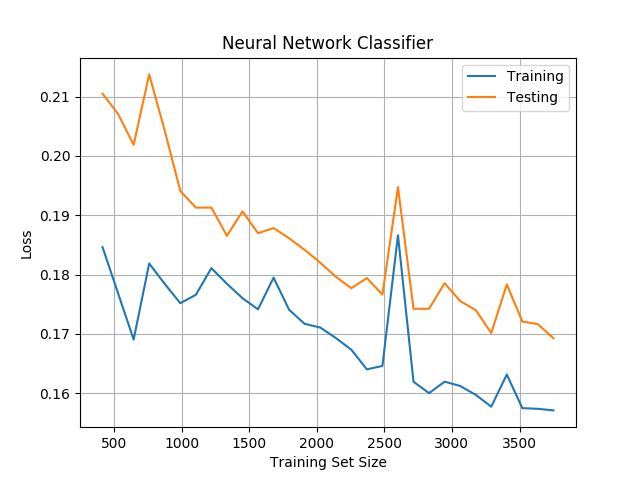
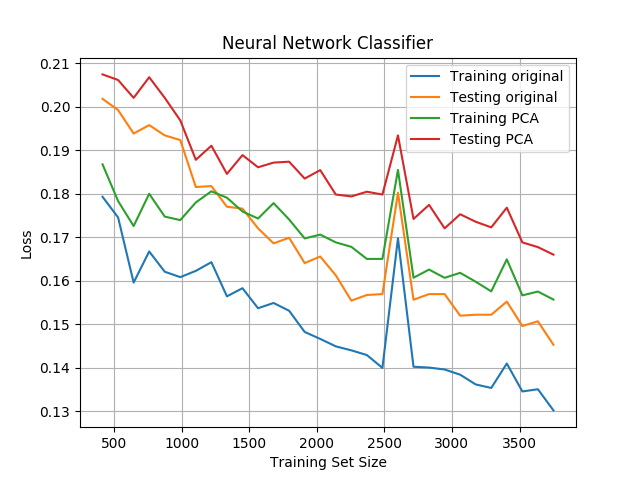
comparison

diff --git a/dim/RP.py b/dim/RP.py
@@ -4,7 +4,7 @@ import sys
 sys.path.append(os.path.join(os.getcwd(), os.pardir))
 
 from datasets import digits, phoneme
-from sklearn import decomposition, cluster, metrics, neural_network, model_selection
+from sklearn import random_projection, cluster, metrics, neural_network, model_selection
 from math import sqrt
 import matplotlib.pyplot as plt
 import numpy as np
@@ -20,17 +20,17 @@ def image_from_features(features):
     image = [[features[y * 8 + x] for x in range(7)] for y in range(8)]
     return image
 
-DATASET = phoneme
-N_COMPONENTS = 4
-N_CLUSTERS = 2
-MODE = "nothing"
-EXPERIMENT = 'learning'
+DATASET = digits
+N_COMPONENTS = 19
+N_CLUSTERS = 10
+MODE = "pretty"
+EXPERIMENT = 'nothing'
 
 # General Options
 TITLE = 'Neural Network Classifier'
 
-pca = decomposition.PCA(N_COMPONENTS)
-new_data = pca.fit_transform(DATASET.training_features)
+rp = random_projection.GaussianRandomProjection(n_components=N_COMPONENTS)
+new_data = rp.fit_transform(DATASET.training_features)
 
 report = {}
 labels = []
